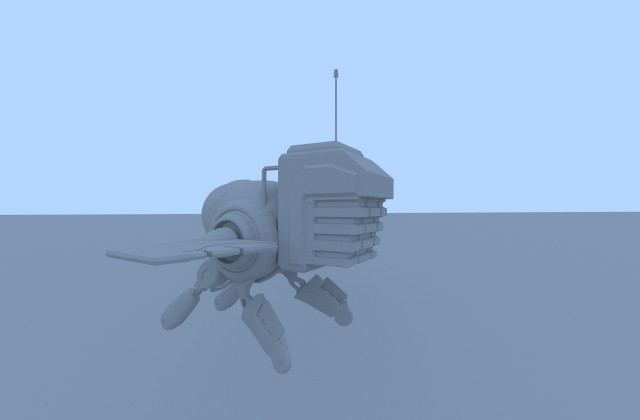
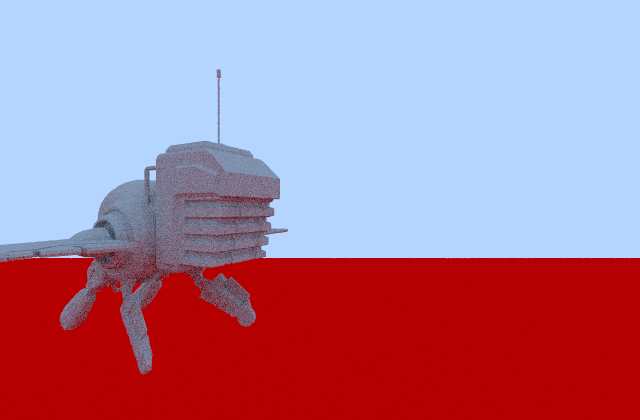
blas traversal fixes

diff --git a/examples/cpu.rs b/examples/cpu.rs
@@ -217,7 +217,7 @@ impl RayGenerationShader<Ctx, Payload> for MyRayGenerator {
                     break;
                 }
 
-                ray.origin = payload.p + payload.normal * 0.01;
+                ray.origin = payload.p; // + payload.normal * 0.01;
                 ray.direction = payload.next_direction;
             }
 
@@ -256,7 +256,11 @@ impl ClosestHitShader<Ctx, Payload> for MyClosestHitShader {
         payload.next_direction = onb.to_local(&ctx.sampler.sample_hemisphere()).normalize();
 
         payload.normal = normal;
-        payload.color = HdrColor::new(0.5, 0.5, 0.5, 1.0);
+        if hit_record.object_id == 0 {
+            payload.color = HdrColor::new(0.5, 0.5, 0.5, 1.0);
+        } else {
+            payload.color = HdrColor::new(1.0, 0.0, 0.0, 1.0);
+        }
     }
 }
 
@@ -274,26 +278,25 @@ fn main() {
     let (vertices, indices) = read_triangle_file("unity.tri");
     let mut triangle_mesh = TriangleMesh::new(vertices, indices);
     triangle_mesh.center();
+    let mesh = scene.add_mesh(triangle_mesh);
+    scene.create_instance(mesh, nalgebra_glm::scaling(&Vec3::new(1.0, 1.0, 1.0)));
 
     let floor_vertices = vec![
-        Vertex::new(-1.0, -5.0, 0.0),
-        Vertex::new(-1.0, -5.0, 1.0),
-        Vertex::new(1.0, -5.0, 1.0),
-        Vertex::new(1.0, -5.0, -1.0),
+        Vertex::new(-1.0, -15.0, -1.0),
+        Vertex::new(-1.0, -15.0, 1.0),
+        Vertex::new(1.0, -15.0, 1.0),
+        Vertex::new(1.0, -15.0, -1.0),
     ];
 
     let floor_indices = vec![0, 1, 2, 0, 2, 3];
 
     let mesh = scene.add_mesh(TriangleMesh::new(floor_vertices, floor_indices));
-    scene.create_instance(mesh, nalgebra_glm::scaling(&Vec3::new(1000.0, 1.0, 1000.0)));
-
-    let mesh = scene.add_mesh(triangle_mesh);
-    scene.create_instance(mesh, nalgebra_glm::scaling(&Vec3::new(1.0, 1.0, 1.0)));
+    scene.create_instance(mesh, nalgebra_glm::scaling(&Vec3::new(100.0, 1.0, 100.0)));
 
     let width = 640;
     let height = 420;
     let camera = Camera::new(
-        Position::new(1.0, 0.0, -3.0),
+        Position::new(0.0, 0.0, -3.0),
         65.0,
         &Vec2::new(width as f32, height as f32),
     );
@@ -306,7 +309,7 @@ fn main() {
 
     let mut result_buffer = vec![Payload::default(); (width * height) as usize];
     let ctx = Ctx {
-        spp: 1024,
+        spp: 16,
         camera,
         sampler: Box::new(RandomSampler {}),
         scene,

diff --git a/src/cpu/top_level_acceleration_structure.rs b/src/cpu/top_level_acceleration_structure.rs
@@ -125,8 +125,6 @@ impl TopLevelAccelerationStructure {
         if instances.len() == 2 {
             this.nodes[0].first_primitive = 0;
             this.nodes[0].primitive_count = 2;
-            this.nodes[1].first_primitive = 1;
-            this.nodes[1].primitive_count = 0;
             this
         } else {
             this.subdivide(0, &mut boxes);
@@ -174,6 +172,8 @@ impl TopLevelAccelerationStructure {
                 let first = node.first_primitive as usize;
                 let last = first + node.primitive_count as usize;
 
+                let mut hits = Vec::new();
+
                 for i in first..last {
                     let instance = &self.instances[i];
                     let transform = &instance.transform;
@@ -184,9 +184,7 @@ impl TopLevelAccelerationStructure {
                         record.object_id = i as _;
                         d = record.t;
                         record.obj_to_world = *transform;
-                        if let RayType::Shadow = ray_type {
-                            break;
-                        }
+                        hits.push(i);
                     }
                 }
 

diff --git a/src/cpu/bvh.rs b/src/cpu/bvh.rs
@@ -293,7 +293,6 @@ impl BottomLevelAccelerationStructure {
         let mut stack_ptr = 0;
         let mut stack = [0; 64];
         let inv_ray = ray.transformed(&transform.try_inverse().unwrap());
-        let mut d = f32::MAX;
         loop {
             let node = &self.nodes[node_idx];
             if self.nodes[node_idx].primitive_count > 0 {
@@ -317,8 +316,7 @@ impl BottomLevelAccelerationStructure {
                         &mut u,
                         &mut v,
                     );
-                    if hit && t < d {
-                        d = t;
+                    if hit && t < hit_record.t {
                         hit_record.t = t;
                         hit_record.u = u;
                         hit_record.v = v;
